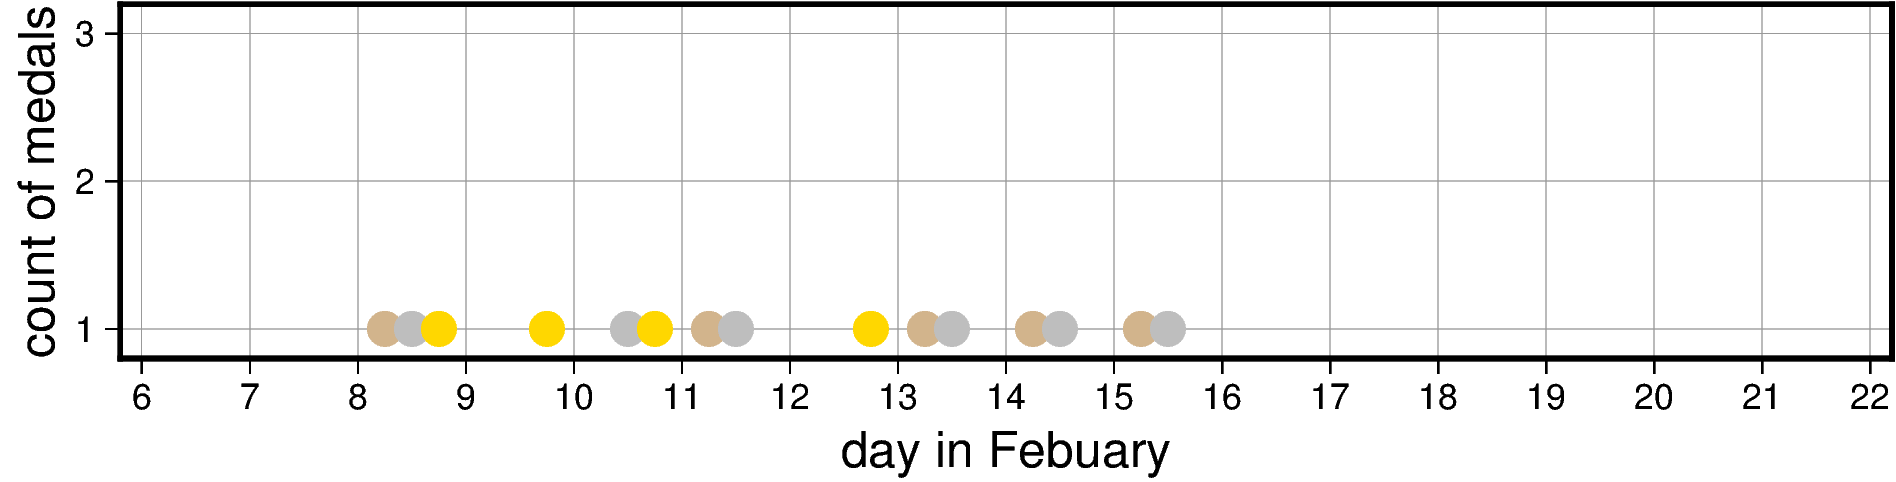
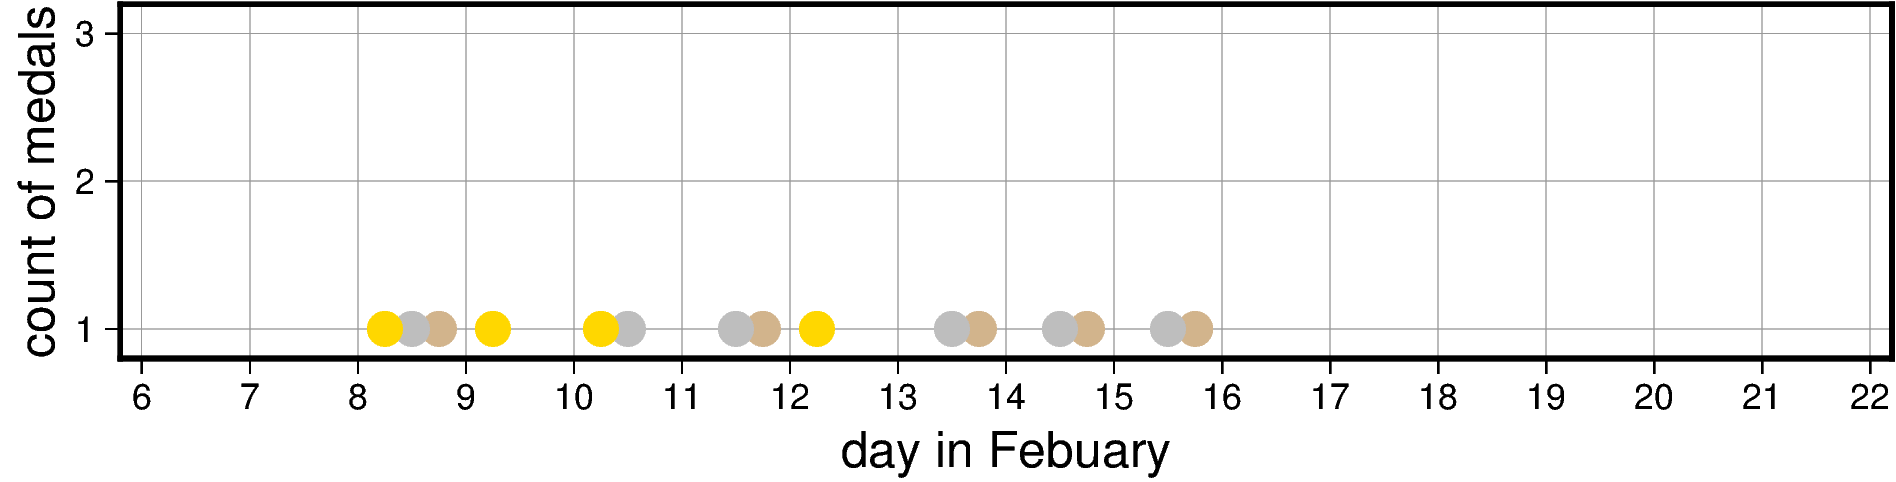
Make order conistent

Changed region(s): [[0.1867, 0.6224, 0.6535, 0.7158]]

diff --git a/016_winter_olympics_2026/05_medals_germany.py b/016_winter_olympics_2026/05_medals_germany.py
@@ -35,7 +35,7 @@ fig.basemap(
 for medal, color, xshift in zip(
     ["bronze", "silver", "gold"],
     ["tan", "gray", "gold"],
-    [0.25, 0.5, 0.75]
+    [0.75, 0.5, 0.25]
 ):
 
     fig.plot(
@@ -67,13 +67,13 @@ n_X = 0
 for medal, color, xshift in zip(
     ["bronze", "silver", "gold"],
     ["tan", "gray", "gold"],
-    [0.25, 0.5, 0.75]
+    [0.75, 0.5, 0.25]
 ):
 
     df_medals_temp = df_medals[df_medals["medal"] == medal]
 
     text = f"{medal}: {len(df_medals_temp)}"
-    fig.text(text=text, position="TL", justify="TR", offset=f"1.5c/{xshift * 1.3 - 1.4}c")
+    fig.text(text=text, position="TL", justify="TR", offset=f"1.5c/{-xshift * 1.4}c")
 
     for gender, pen in zip(["F", "M", "X"], ["tomato", "steelblue", "purple"]):
 
@@ -106,8 +106,8 @@ for medal, color, xshift in zip(
                     )
 
 fig.text(text=f"female: {n_F}", justify="TR", position="TL", offset="1.5c/-1.7c")
-fig.text(text=f"male: {n_M}", justify="TR", position="TL", offset="1.5c/-2.0c")
-fig.text(text=f"mixed: {n_X}", justify="TR", position="TL", offset="1.5c/-2.3c")
+fig.text(text=f"male: {n_M}", justify="TR", position="TL", offset="1.5c/-2.05c")
+fig.text(text=f"mixed: {n_X}", justify="TR", position="TL", offset="1.5c/-2.4c")
 
 fig.show()
 fig.savefig(fname=f"{path_out}/05_medals_germany_02.png")
